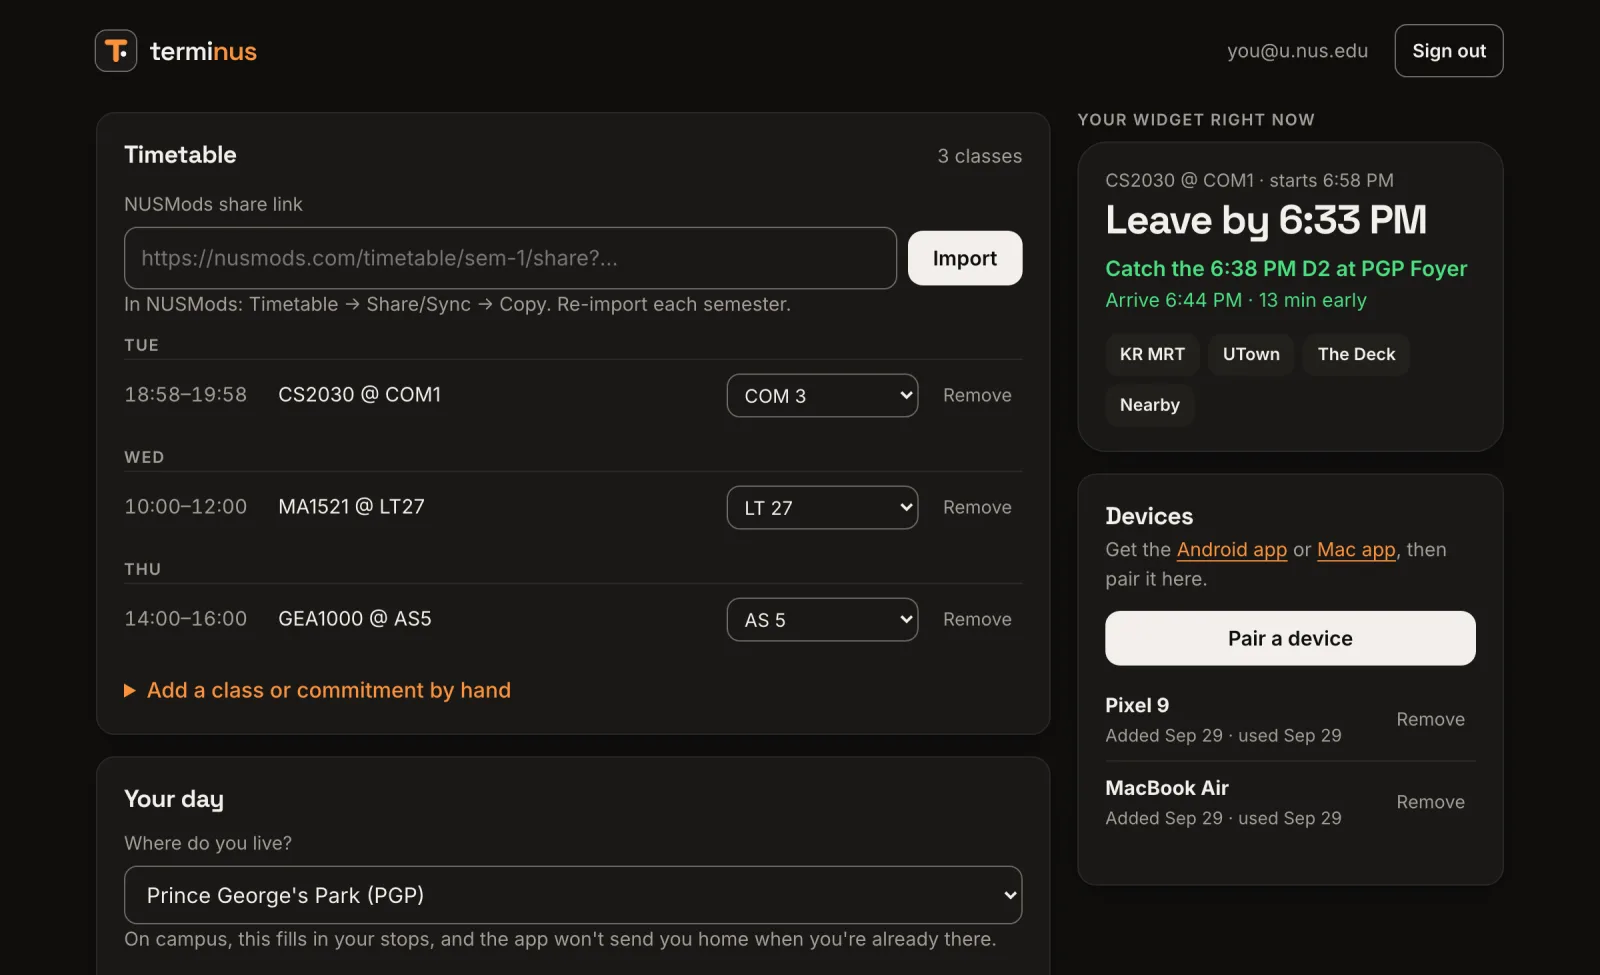
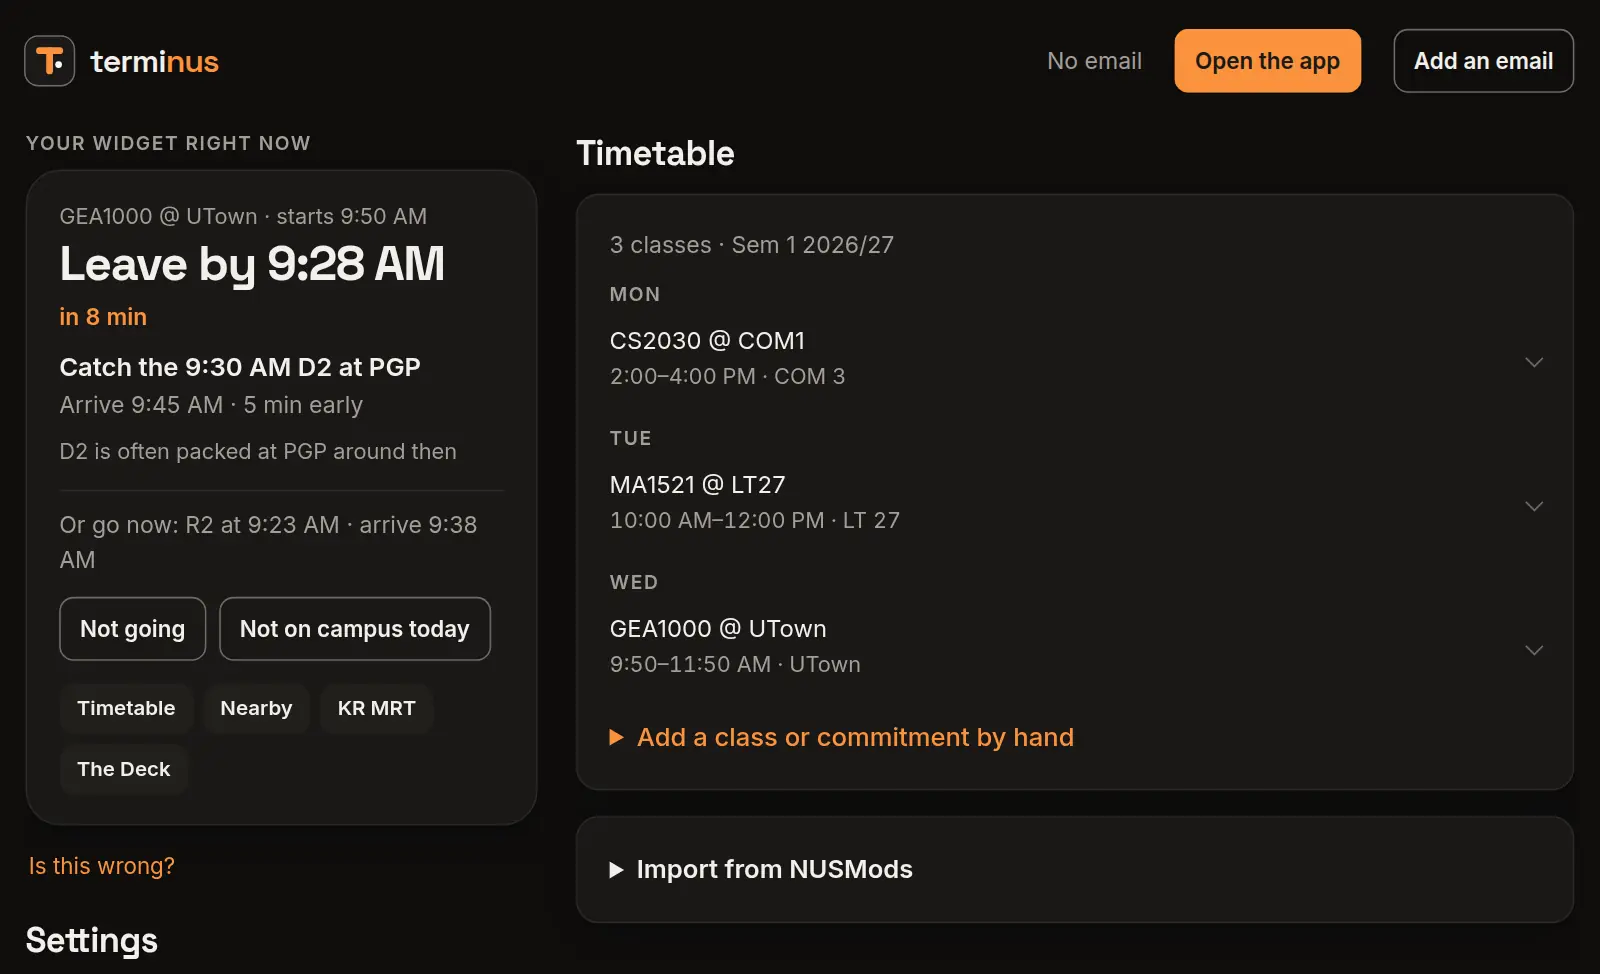
docs(readme): web and map screenshots, and the semester reminder
New screenshots from the dev stub in light and dark: the account page
with the calmer card beside a timetable (also on the landing page),
and the campus map with D2 and its buses. The README shows both, says
the app has Now, Map and Settings, that the web sign-in email has a
code or a link, and that a reminder comes the week before each
semester to import the new timetable.

diff --git a/apps/web/public/assets/zh.js b/apps/web/public/assets/zh.js
@@ -270,7 +270,7 @@ window.TERMINUS_ZH = {
  "The Android home-screen widget: leave by 6:00 PM for CS2030, with buttons for favourites.": "Android 主屏幕小组件：下午 6:00 前出发去上 CS2030，带有收藏按钮。",
  "The D2 never came, the walk is longer than that…": "D2 一直没来、步行比说的久…",
  "The Mac menu bar app: leave by 9:41 for CS2030 at 10:00, catch the 9:45 D2 at PGP.": "Mac 菜单栏应用：9:41 前出发去上 10:00 的 CS2030，在 PGP 搭 9:45 的 D2。",
- "The account page: a timetable of three classes, and a live preview of your widget saying leave by 6:33 PM and catch the 6:38 PM D2 at PGP Foyer, arriving 13 minutes early.": "账户页面：三节课的课表，以及小组件的实时预览：下午 6:33 前出发，在 PGP Foyer 搭下午 6:38 的 D2，早到 13 分钟。",
+ "The account page: a timetable of three classes, and a live preview of your widget saying leave by 9:28 AM, in 8 minutes, and catch the 9:30 AM D2 at PGP, arriving 5 minutes early.": "账户页面：三节课的课表，以及小组件的实时预览：上午 9:28 前出发，还有 8 分钟，在 PGP 搭上午 9:30 的 D2，早到 5 分钟。",
  "The start time must be before the end time": "开始时间必须早于结束时间",
  "The latest bus that still gets you there, walks along real campus paths at your pace, and a bus earlier when yours is usually packed.": "最晚还能让你准时到的那班巴士，按你的步速沿真实校园路线计算步行时间，你那班经常很挤时就提早一班。",
  "The next NUS shuttle to wherever you're going next, from your timetable. A home-screen widget for Android and a menu bar app for Mac.": "根据你的课表，告诉你去下一个地方的下一班 NUS 校园巴士。Android 主屏幕小组件和 Mac 菜单栏应用。",

diff --git a/apps/web/public/index.html b/apps/web/public/index.html
@@ -192,7 +192,7 @@
         <div class="window-bar" aria-hidden="true"><i></i><i></i><i></i><span>terminus.rcn.sh/account</span></div>
         <picture class="shot">
           <source srcset="/assets/shots/web-dark.webp" media="(prefers-color-scheme: dark)">
-          <img src="/assets/shots/web-light.webp" width="1600" height="975" loading="lazy" alt="The account page: a timetable of three classes, and a live preview of your widget saying leave by 6:33 PM and catch the 6:38 PM D2 at PGP Foyer, arriving 13 minutes early.">
+          <img src="/assets/shots/web-light.webp" width="1600" height="974" loading="lazy" alt="The account page: a timetable of three classes, and a live preview of your widget saying leave by 9:28 AM, in 8 minutes, and catch the 9:30 AM D2 at PGP, arriving 5 minutes early.">
         </picture>
       </div>
       <figcaption><h3>Set up on the web</h3><p>Import your NUSMods timetable, pick where you live and how fast you walk, and see exactly what your widget will say.</p></figcaption>

diff --git a/README.md b/README.md
@@ -45,6 +45,16 @@ The same answer on your phone, your Mac and the web, in light or dark.
       When to leave, one glance up. The rest, a click away.
     </td>
   </tr>
+  <tr>
+    <td colspan="2" valign="top">
+      <picture>
+        <source media="(prefers-color-scheme: dark)" srcset="apps/web/public/assets/shots/web-dark.webp">
+        <img alt="The account page on the web: a timetable of three classes beside the card, which says leave by 9:28 AM, in 8 minutes, and catch the 9:30 AM D2 at PGP, arriving 5 minutes early." src="apps/web/public/assets/shots/web-light.webp" width="100%">
+      </picture>
+      <h3>On the web</h3>
+      The same card in any browser, with your timetable and settings beside it. Add it to your home screen for the app, with notifications when it's time to leave.
+    </td>
+  </tr>
 </table>
 
 ## What it knows
@@ -53,7 +63,7 @@ The same answer on your phone, your Mac and the web, in light or dark.
   <tr>
     <td width="33%" valign="top">
       <h3>Your timetable</h3>
-      Import from NUSMods once. It knows teaching weeks, recess, exams and public holidays, and sends you home in long gaps.
+      Import from NUSMods once a semester; the week before the next one starts, it reminds you. It knows teaching weeks, recess, exams and public holidays, and sends you home in long gaps.
     </td>
     <td width="33%" valign="top">
       <h3>The right time</h3>
@@ -68,6 +78,11 @@ The same answer on your phone, your Mac and the web, in light or dark.
 
 ### And a map of campus
 
+<picture>
+  <source media="(prefers-color-scheme: dark)" srcset="apps/web/public/assets/shots/map-dark.webp">
+  <img alt="The campus map with D2 picked: its purple line, its stops and three buses on it, over a street map of NUS." src="apps/web/public/assets/shots/map-light.webp" width="100%">
+</picture>
+
 On Android and the web: every bus route in its colour, on a quiet street map. Tap a service to see its line and its buses moving live; tap a stop for what's coming, the services that call there, and a way to go there. It works offline after the first look.
 
 ## Set up in two minutes
@@ -76,11 +91,11 @@ On Android and the web: every bus route in its colour, on a quiet street map. Ta
 
 **On the web or a Mac:**
 
-1. **Sign in** at [terminus.rcn.sh/account](https://terminus.rcn.sh/account) with a code sent to your email. No password.
+1. **Sign in** at [terminus.rcn.sh/account](https://terminus.rcn.sh/account) with a code or link sent to your email. No password.
 2. **Import** your NUSMods share link and pick your home stop.
 3. **Install** the Mac menu bar app and sign in with the same email: approve it from the link we email you, on any device, by choosing the number the Mac shows. Or pair it with a code from the account page or the Android app's Settings.
 
-That's it. It updates through the day and goes quiet in the evening.
+That's it. It updates through the day and goes quiet in the evening. The app has three tabs: **Now** (the card and your places), **Map** and **Settings**.
 
 <details>
 <summary><b>Installing outside the app stores</b></summary>
